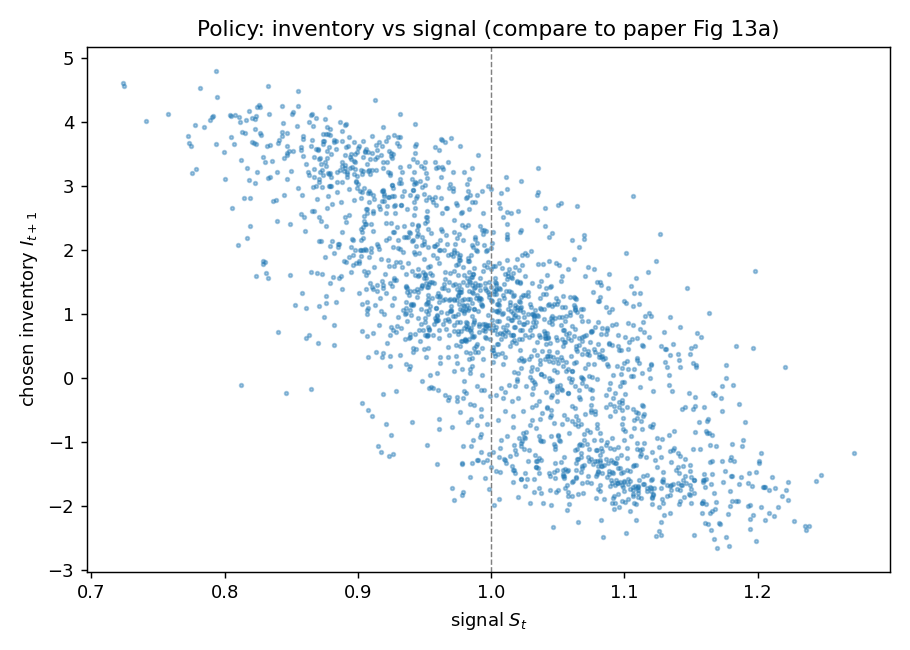
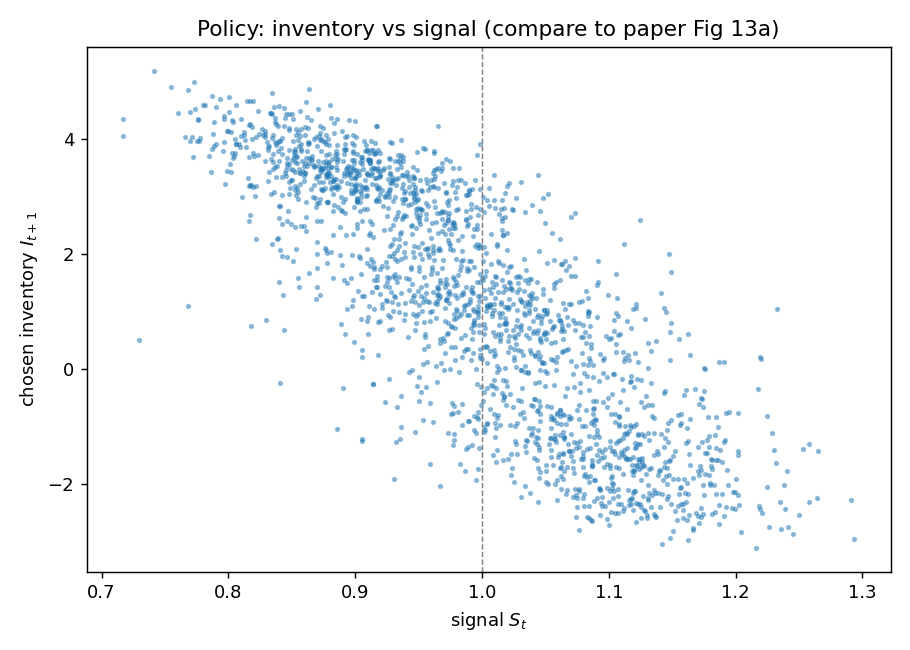
Modified to account for different scenarioes

diff --git a/src/data/ou_simulator.py b/src/data/ou_simulator.py
@@ -2,20 +2,29 @@
 Regime-switching Ornstein-Uhlenbeck (OU) signal simulator.
 
 Reproduces the synthetic data-generating process from Section 2 of
-Macri, Jaimungal & Lillo (2025), "Deep reinforcement learning for optimal
-trading with partial information" -- the simplest setting where only the
-mean-reversion level theta switches between regimes (Table 1, row 1).
+Macri, Jaimungal & Lillo (2025). The signal follows the OU SDE (Eq. 1):
 
-The signal follows the OU SDE (Eq. 1):
-    dS_t = kappa * (theta_t - S_t) dt + sigma * dW_t
+    dS_t = kappa_t * (theta_t - S_t) dt + sigma_t * dW_t
 
-theta_t switches among discrete regimes (e.g. {0.9, 1.0, 1.1}) via a
-continuous-time Markov chain. kappa, sigma constant in this first stage.
+theta ALWAYS switches via a Markov chain. kappa and sigma may be either
+constant or switching, which selects the scenario:
 
-Initialization (paper): the signal starts at S_{t-W} ~ N(mu_inv, 3*sigma_inv),
-where sigma_inv = sigma / sqrt(2*kappa) is the OU invariant volatility and
-mu_inv is the invariant mean. For the TEST phase the paper instead fixes
-S_0 = 1, so simulate_path accepts an optional s0 to override the random draw.
+  - Scenario 1 (theta):          kappa, sigma constant.
+  - Scenario 2 (theta, kappa):   kappa switches, sigma constant.
+  - Scenario 3 (theta,kappa,sigma): kappa and sigma both switch.
+
+Each parameter that switches has its OWN independent Markov chain. The scenario
+is implied by which arguments are given (constant value vs. regime set), and the
+asserts enforce that exactly one form is supplied per parameter.
+
+Initialization (paper): S_{t-W} ~ N(mu_inv, 3*sigma_inv), where
+sigma_inv = sigma_min / sqrt(2*kappa_min) is the OU invariant volatility using
+the MINIMUM kappa/sigma across regimes (paper's rule for the switching cases).
+For the TEST phase the paper fixes S_0 = 1 (pass s0=1.0).
+
+Note the OU discretization constants a, b are computed INSIDE the loop from the
+current step's kappa_t, sigma_t (they are only constant in Scenario 1). This is
+one unified code path for all scenarios; verified to reproduce Scenario 1.
 """
 
 import numpy as np
@@ -23,51 +32,81 @@ from scipy.linalg import expm
 
 
 def simulate_path(n: int, rng: np.random.Generator, regimes: np.ndarray,
-                  A: np.ndarray, kappa: float, sigma: float, dt: float,
+                  A: np.ndarray, dt: float,
+                  kappa: float = None, regimes_kappa: np.ndarray = None, A_kappa: np.ndarray = None,
+                  sigma: float = None, regimes_sigma: np.ndarray = None, A_sigma: np.ndarray = None,
                   mu_inv: float = 1.0, s0: float = None):
   """
   Simulate one path of the regime-switching OU signal.
 
-  Args:
-    n       : number of time steps.
-    rng     : NumPy Generator (seed controlled at the call site).
-    regimes : possible theta values, e.g. np.array([0.9, 1.0, 1.1]).
-    A       : Markov generator (rate) matrix for regime switching.
-    kappa, sigma, dt : OU parameters.
-    mu_inv  : invariant mean for the training init (paper: 1.0).
-    s0      : if given, start the signal at this fixed value (TEST phase, S_0=1);
-              if None, draw S[0] ~ N(mu_inv, 3*sigma_inv) (TRAIN phase).
+  theta is always a switching chain (regimes, A required). kappa and sigma are
+  each EITHER constant (pass kappa=/sigma=) OR switching (pass regimes_kappa +
+  A_kappa / regimes_sigma + A_sigma). Exactly one form per parameter.
 
   Returns:
     S          : (n,) signal values.
-    regime_idx : (n,) active regime index at each step.
+    regime_idx : (n,) active THETA regime index at each step (prob-DDPG label).
   """
-  # One-step regime transition probabilities (Eq. 5): matrix-exponentiate the
-  # rate matrix over dt. Must be scipy.linalg.expm, NOT np.exp.
-  P = expm(A * dt)
+  # --- validate: exactly one of (constant, regimes) per parameter ---
+  assert (kappa is None) != (regimes_kappa is None), \
+      "provide exactly one of kappa (constant) or regimes_kappa (switching)"
+  
+  assert (sigma is None) != (regimes_sigma is None), \
+      "provide exactly one of sigma (constant) or regimes_sigma (switching)"
+  
+  if regimes_kappa is not None:
+    assert A_kappa is not None, "regimes_kappa requires A_kappa (its transition matrix)"
+    
+  if regimes_sigma is not None:
+    assert A_sigma is not None, "regimes_sigma requires A_sigma (its transition matrix)"
 
-  # Exact OU discretization constants (no error at any step size).
-  a = np.exp(-kappa * dt)
-  b = sigma * np.sqrt((1 - np.exp(-2 * kappa * dt)) / (2 * kappa))
+  kappa_switches = regimes_kappa is not None
+  sigma_switches = regimes_sigma is not None
+
+  # --- one-step transition matrices (Eq. 5) for each ACTIVE chain ---
+  P_theta = expm(A * dt)
+  P_kappa = expm(A_kappa * dt) if kappa_switches else None
+  P_sigma = expm(A_sigma * dt) if sigma_switches else None
+
+  # --- init uses the MINIMUM kappa / sigma across regimes (paper's rule) ---
+  kappa_min = float(np.min(regimes_kappa)) if kappa_switches else kappa
+  sigma_min = float(np.min(regimes_sigma)) if sigma_switches else sigma
 
   S = np.zeros(n)
-  regime_idx = np.zeros(n, dtype=int)
+  regime_idx = np.zeros(n, dtype=int)          # theta regime index (the label)
 
-  # Regime at step 0: no previous regime to transition from, so pick uniformly.
-  row = rng.integers(len(regimes))
-  regime_idx[0] = row
+  # --- step 0: pick each active chain's regime uniformly (no prior state) ---
+  theta_row = rng.integers(len(regimes))
+  kappa_row = rng.integers(len(regimes_kappa)) if kappa_switches else None
+  sigma_row = rng.integers(len(regimes_sigma)) if sigma_switches else None
+  regime_idx[0] = theta_row
 
-  # Signal at step 0: paper init N(mu_inv, 3*sigma_inv) for training,
-  # or the fixed s0 (=1) for the test phase.
-  sigma_inv = sigma / np.sqrt(2 * kappa)      # OU invariant volatility
+  # --- signal at step 0: N(mu_inv, 3*sigma_inv) using min params, or fixed s0 ---
+  sigma_inv = sigma_min / np.sqrt(2 * kappa_min)
   S[0] = rng.normal(mu_inv, 3 * sigma_inv) if s0 is None else s0
 
   for i in range(1, n):
-    # Advance the Markov chain; `row` is the state, so write the result back.
-    row = rng.choice(len(regimes), p=P[row])
-    theta = regimes[row]
+    # advance each active chain independently
+    theta_row = rng.choice(len(regimes), p=P_theta[theta_row])
+    theta_t = regimes[theta_row]
 
-    S[i] = theta + (S[i-1] - theta) * a + b * rng.standard_normal()
-    regime_idx[i] = row
+    if kappa_switches:
+      kappa_row = rng.choice(len(regimes_kappa), p=P_kappa[kappa_row])
+      kappa_t = regimes_kappa[kappa_row]
+    else:
+      kappa_t = kappa
+
+    if sigma_switches:
+      sigma_row = rng.choice(len(regimes_sigma), p=P_sigma[sigma_row])
+      sigma_t = regimes_sigma[sigma_row]
+    else:
+      sigma_t = sigma
+
+    # OU discretization constants for THIS step (constant only in Scenario 1)
+    a = np.exp(-kappa_t * dt)
+    b = sigma_t * np.sqrt((1 - np.exp(-2 * kappa_t * dt)) / (2 * kappa_t))
+
+    S[i] = theta_t + (S[i-1] - theta_t) * a + b * rng.standard_normal()
+    regime_idx[i] = theta_row
 
   return S, regime_idx

diff --git a/src/env/trading_env.py b/src/env/trading_env.py
@@ -10,7 +10,7 @@ impact. So this module is a batch FACTORY, not a stateful environment.
 
   sample_batch            : produces a batch of independent training samples
   step_reward             : applies the per-step reward (Eq. 4) across a batch
-  normalize_state_features: scales S and I to [0, 1] before they enter the nets
+  normalize_state_features: normalizes the SIGNAL to [0,1]; inventory stays raw
 
 IMPORTANT (training vs. evaluation): the windows here are short, independent,
 non-contiguous paths with RANDOMLY sampled inventories -- correct for training.
@@ -37,30 +37,35 @@ S_MAX = 1.5
 
 def normalize_state_features(S, s_min=S_MIN, s_max=S_MAX):
     """
-    Scale the raw signal S into [0, 1] for the networks.
+    Normalize the state features for the networks.
 
-    Only the features the networks SEE are normalized -- NOT the reward, which
-    is computed from raw quantities (real P&L in real units). Apply this
-    identically in training and eval (same constants) or the Actor will see
-    out-of-distribution inputs.
+    IMPORTANT (replication finding): only the SIGNAL is normalized (to [0,1]).
 
-      S : signal value(s)      -> (S - s_min) / (s_max - s_min)
+    Why: normalizing inventory to [0,1] shifts its neutral point to 0.5, which
+    breaks the policy's long/short symmetry -- the agent fails to cross zero at
+    the signal mean and its cumulative reward collapses to ~0 or negative. With
+    inventory left raw (zero-centered, and on a scale consistent with the
+    UN-normalized GRU encoding o_t), the policy correctly crosses zero at the
+    mean and reproduces the paper's result (~15.7). The paper's "features
+    normalised to [0,1]" is thus read as applying to the signal.
 
-    S keeps its shape (scalars, (batch,1)). The GRU encoding
+    Reward is always computed from RAW quantities (real P&L) -- do not pass
+    normalized values to step_reward.
+
+      S : signal value(s)  -> (S - s_min) / (s_max - s_min), clipped to [0,1]
+
+    Shapes are preserved (scalars, (batch,1), (1,1)). o_t is also unnormalized.
     """
     S_norm = (S - s_min) / (s_max - s_min)
-
-    # Clip signal to [0,1] (paper normalizes to [0,1]; signals can fall
-    # outside [s_min,s_max]). Works for both torch tensors and numpy arrays.
-    if hasattr(S_norm, 'clamp'):
+    if hasattr(S_norm, "clamp"):
         S_norm = S_norm.clamp(0.0, 1.0)
     else:
         S_norm = np.clip(S_norm, 0.0, 1.0)
-    return S_norm
+    return S_norm        # inventory RAW (not normalized)
 
 
 # TODO: batch-vectorize paths if profiling shows this is hot
-def sample_batch(batch_size, W, rng, regimes, A, kappa, sigma, dt, I_max):
+def sample_batch(batch_size, W, rng, regimes, A, kappa, sigma, dt, I_max, **ou_kwargs):
     """
     Build one training batch of independent samples.
 
@@ -68,15 +73,28 @@ def sample_batch(batch_size, W, rng, regimes, A, kappa, sigma, dt, I_max):
       batch_size : number of samples in the batch.
       W          : look-back window length; the GRU reads W+1 signal values.
       rng        : np.random.Generator (from np.random.default_rng(seed)).
-      regimes, A, kappa, sigma, dt : OU / regime-chain parameters (see ou_simulator).
+      regimes, A, kappa, sigma, dt : OU / theta-regime parameters (Scenario 1
+                   form). For Scenario 2/3, pass kappa/sigma as usual for any
+                   parameter that stays constant, and supply the switching ones
+                   via **ou_kwargs (see below).
       I_max      : inventory bound; training inventories are drawn U[-I_max, I_max].
+      **ou_kwargs: optional switching-chain params forwarded to simulate_path:
+                     regimes_kappa=, A_kappa=   (Scenario 2/3: kappa switches)
+                     regimes_sigma=, A_sigma=   (Scenario 3: sigma switches)
+                   simulate_path asserts exactly one form (constant OR switching)
+                   per parameter, so for a switching parameter pass its regimes
+                   here and leave the corresponding constant (kappa=/sigma=) None.
+
+    NOTE: for a parameter that SWITCHES, pass None for its constant here. E.g.
+    Scenario 2 call: sample_batch(..., kappa=None, sigma=0.2, ...,
+                                  regimes_kappa=rk, A_kappa=Ak).
 
     Returns a dict of stacked arrays:
       windows     : (batch_size, W+1)  the GRU look-back, S_{t-W} .. S_t
       next_windows: (batch_size, W+1)  the GRU look-back for the next step, S_{t-W+1} .. S_{t+1}
       S_t         : (batch_size,)      current signal (== windows[:, -1])
       S_next      : (batch_size,)      next signal S_{t+1}, for the reward
-      regime      : (batch_size,)      active regime index at t (prob-DDPG label)
+      regime      : (batch_size,)      active theta regime index at t (prob-DDPG label)
       I_t         : (batch_size,)      randomly sampled current inventory
     """
     windows = np.zeros((batch_size, W+1))
@@ -89,16 +107,18 @@ def sample_batch(batch_size, W, rng, regimes, A, kappa, sigma, dt, I_max):
     for i in range(batch_size):
         # Each sample is an independent fresh path of length W+2:
         # indices 0..W are the GRU window (index W = "now"), index W+1 = next step.
-        S, regime_index = simulate_path(W+2, rng, regimes, A, kappa, sigma, dt)
+        S, regime_index = simulate_path(W+2, rng, regimes, A, dt, kappa=kappa, sigma=sigma, **ou_kwargs)
 
         windows[i] = S[:W+1]                       # look-back window (W+1 values)
         next_windows[i] = S[1:W+2]                 # indices 1..W+1 (ends at t+1)
         S_t[i] = S[W]                              # "now" = last element of the window
         S_next[i] = S[W+1]                         # one step ahead, for the reward
-        regime[i] = regime_index[W]                # regime active at "now"
+        regime[i] = regime_index[W]                # theta regime active at "now"
         I_t[i] = rng.uniform(-I_max, I_max)        # random inventory (NOT accumulated)
 
-    return {"windows": windows, "next_windows":next_windows, "S_t": S_t, "S_next": S_next, "regime": regime, "I_t": I_t}
+    return {"windows": windows, "next_windows": next_windows, "S_t": S_t,
+            "S_next": S_next, "regime": regime, "I_t": I_t}
+
 
 
 def step_reward(I_t, I_next, S_t, S_next, lam):
@@ -124,5 +144,5 @@ if __name__ == "__main__":
     print({k: v.shape for k, v in b.items()})
 
     # Sanity: inventory 0 maps to 0.5; signal at the midpoint maps to 0.5.
-    S_norm, I_norm = normalize_state_features(np.array([1.0]), np.array([0.0]), I_max=10)
-    print("S_norm(1.0) =", S_norm, " I_norm(0) =", I_norm)   # expect [0.5] [0.5]
+    S_norm = normalize_state_features(np.array([1.0]))
+    print("S_norm(1.0) =", S_norm)   # expect [0.5] 